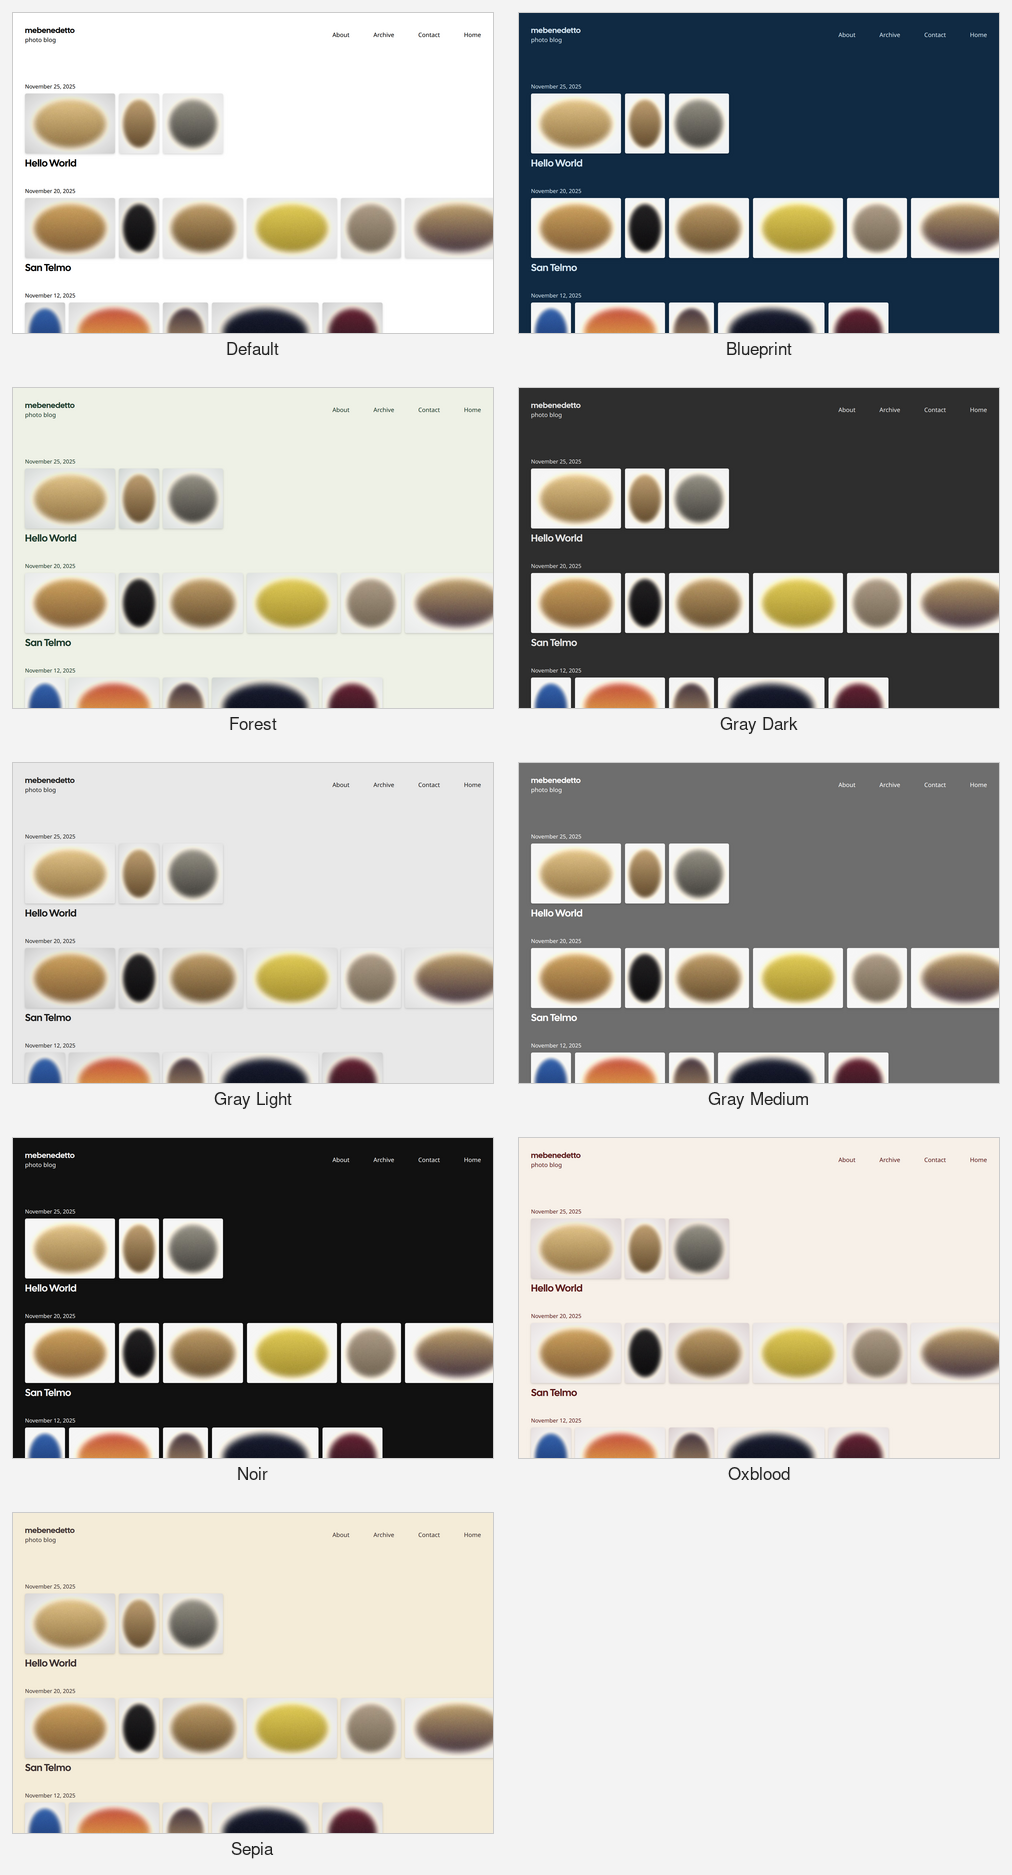
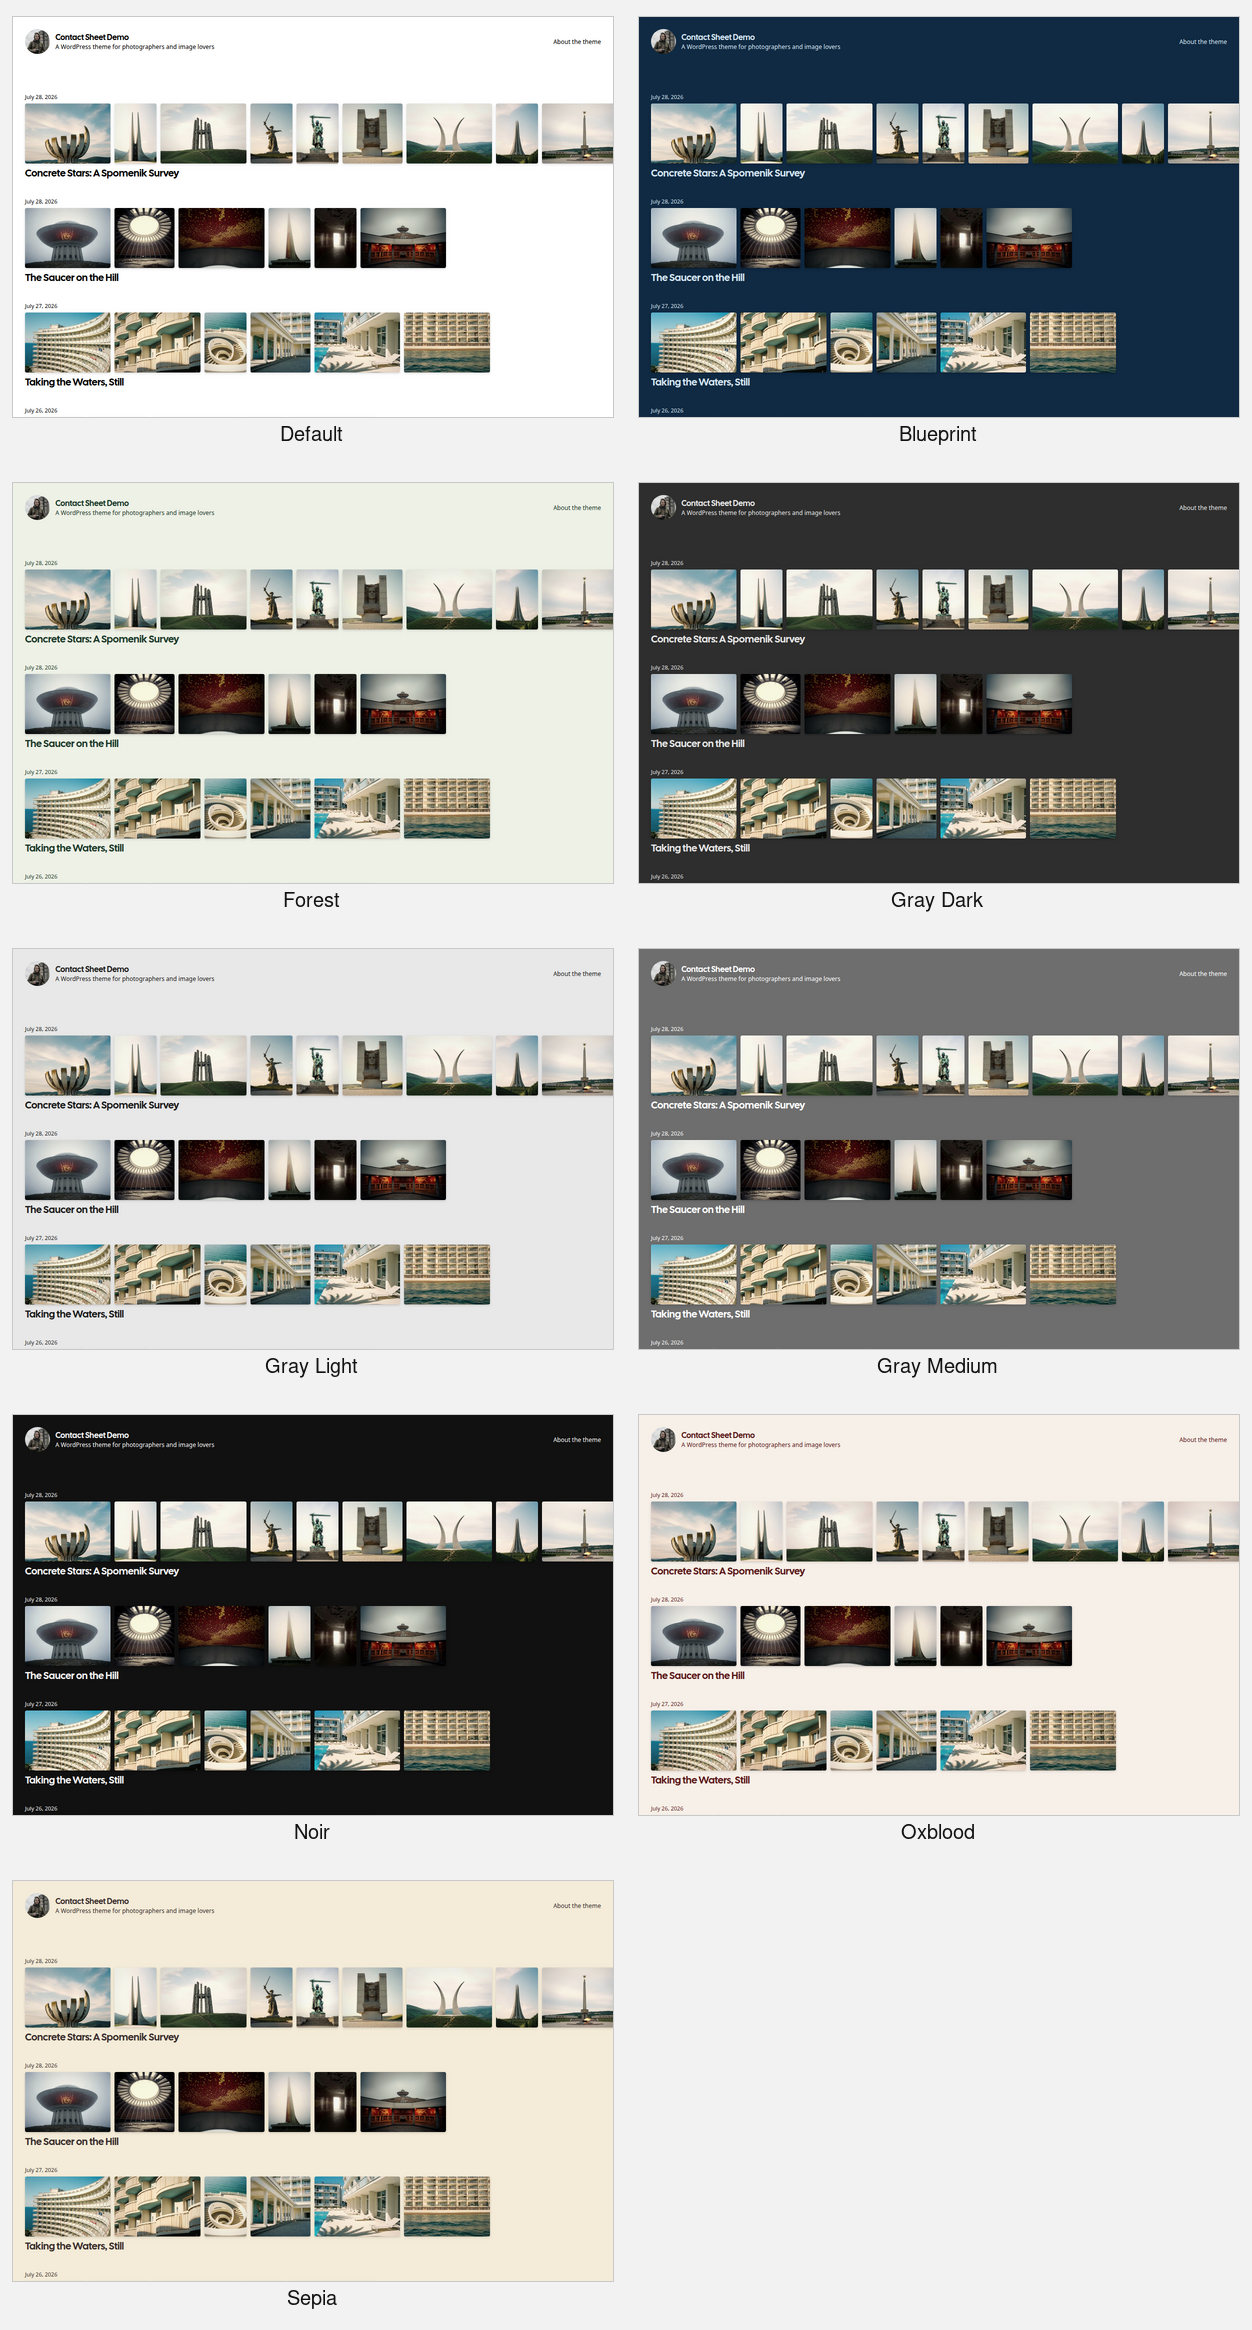
Refresh theme screenshot and color-variation previews from the demo site
screenshot.jpg and screenshots/color-variations.png are now captured from
https://contactsheetdemo.mebenedetto.com/. The variation tiles were rendered
by overriding the two palette presets (primary/secondary) on the live page
with the values from each styles/*.json, then composed into the same
labeled grid layout. Bump version to 1.2.5.

diff --git a/style.css b/style.css
@@ -7,7 +7,7 @@ Description: A minimal photography blog theme that presents each post's images a
 Requires at least: 6.8
 Tested up to: 7.0
 Requires PHP: 7.2
-Version: 1.2.4
+Version: 1.2.5
 License: GNU General Public License v2 or later
 License URI: http://www.gnu.org/licenses/gpl-2.0.html
 Text Domain: contact-sheet
